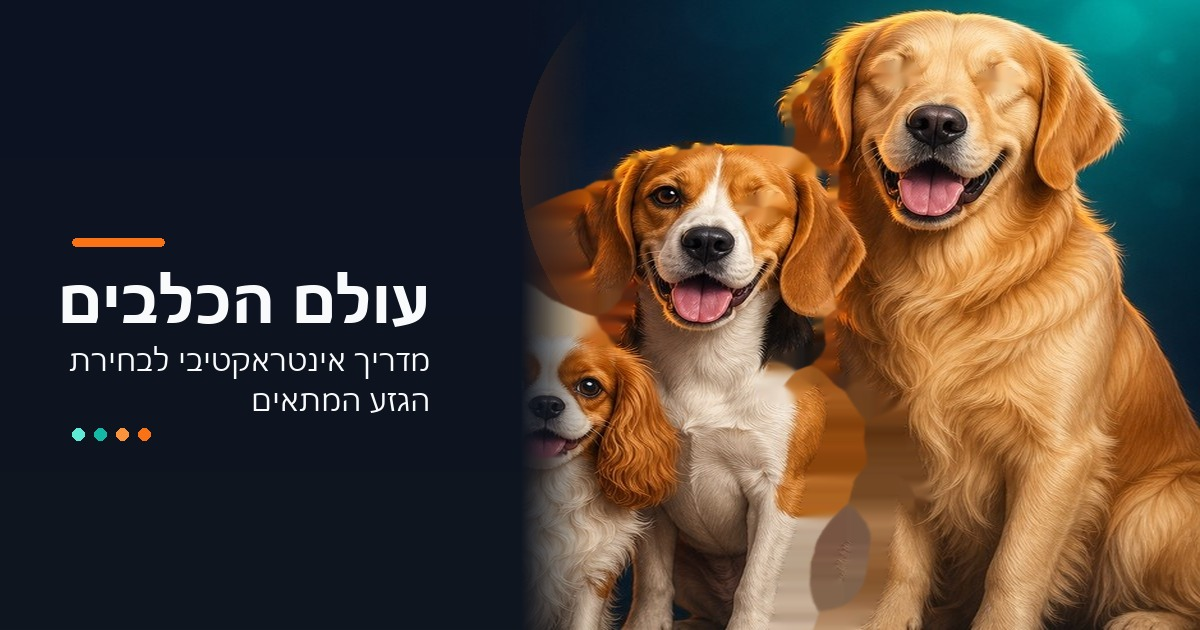
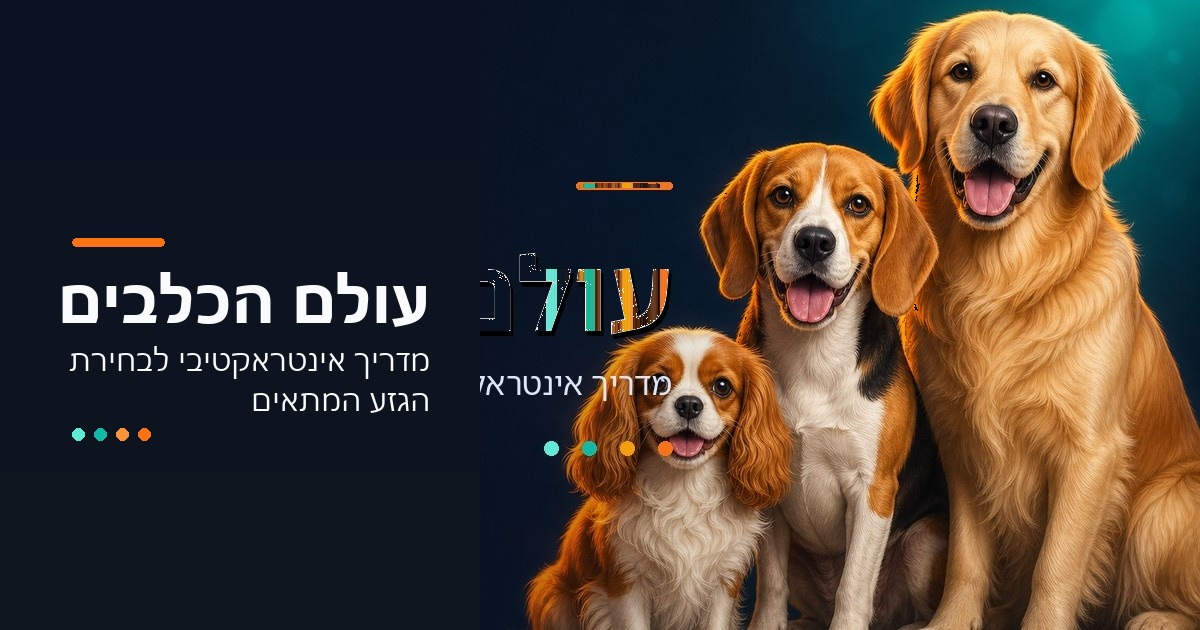
Restore OG dog photo quality by dropping crop and inpaint.
Keep the full original composition, replace only baked text pixels, and redraw typography on a solid left panel.

diff --git a/index.html b/index.html
@@ -51,8 +51,8 @@
   <!-- Share preview image: 1200×630 JPEG. Absolute URL so crawlers (which
        don't run JS) can fetch it directly, regardless of the host the
        link was shared from. -->
-  <meta property="og:image" content="https://shenhaveliya.github.io/dog-world/og-image.jpg?v=20260520-v12" />
-  <meta property="og:image:secure_url" content="https://shenhaveliya.github.io/dog-world/og-image.jpg?v=20260520-v12" />
+  <meta property="og:image" content="https://shenhaveliya.github.io/dog-world/og-image.jpg?v=20260520-v13" />
+  <meta property="og:image:secure_url" content="https://shenhaveliya.github.io/dog-world/og-image.jpg?v=20260520-v13" />
   <meta property="og:image:type" content="image/jpeg" />
   <meta property="og:image:width" content="1200" />
   <meta property="og:image:height" content="630" />
@@ -63,7 +63,7 @@
   <meta name="twitter:card" content="summary_large_image" />
   <meta id="twTitle" name="twitter:title" content="עולם הכלבים – מדריך לבחירת הגזע המתאים" />
   <meta id="twDescription" name="twitter:description" content="מדריך אינטראקטיבי לסוגי כלבים, אופי הגזעים, התאמה למשפחה, וטיפים לבחירת הכלב המתאים לך." />
-  <meta name="twitter:image" content="https://shenhaveliya.github.io/dog-world/og-image.jpg?v=20260520-v12" />
+  <meta name="twitter:image" content="https://shenhaveliya.github.io/dog-world/og-image.jpg?v=20260520-v13" />
   <meta id="twImageAlt" name="twitter:image:alt" content="עולם הכלבים – מדריך אינטראקטיבי לבחירת הגזע המתאים" />
 
   <!-- Privacy-friendly analytics. Works after the domain is added in Plausible. -->

diff --git a/scripts/generate-og-image.py b/scripts/generate-og-image.py
@@ -5,7 +5,6 @@ from __future__ import annotations
 
 from pathlib import Path
 
-import cv2
 import numpy as np
 from bidi.algorithm import get_display
 from PIL import Image, ImageDraw, ImageFont
@@ -17,10 +16,9 @@ W, H = 1200, 630
 
 TEXT_RIGHT = 430
 TEXT_LEFT = 72
-
-# Strip with zero baked subtitle/title pixels in the text band.
-DOG_CROP_X = 668
-DOG_PASTE_X = 520
+LEFT_PANEL_X = 480
+TEXT_BAND = (175, 435)
+TEXT_MASK_X = 478
 
 
 def load_font(size: int, bold: bool = False) -> ImageFont.FreeTypeFont:
@@ -41,72 +39,54 @@ def bg_color(y: int) -> tuple[int, int, int]:
 
 
 def build_text_mask(ref: np.ndarray) -> np.ndarray:
-    mask = np.zeros((H, W), dtype=np.uint8)
-    for y in range(H):
-        for x in range(W):
+    """Mask baked white/orange UI pixels only — no drop-shadow dilation."""
+    mask = np.zeros((H, W), dtype=bool)
+    y0, y1 = TEXT_BAND
+    for y in range(y0, y1 + 1):
+        for x in range(TEXT_MASK_X, W):
             r, g, b = ref[y, x]
             if r >= 248 and g >= 248 and b >= 248:
-                mask[y, x] = 255
+                mask[y, x] = True
             elif r >= 235 and 100 <= g <= 135 and b <= 35:
-                mask[y, x] = 255
-
-    for y in range(H):
-        for x in range(W):
-            if mask[y, x]:
-                continue
-            r, g, b = ref[y, x]
-            if r < 90 and g < 110 and b < 130:
-                for dy in range(-3, 4):
-                    for dx in range(-3, 4):
-                        ny, nx = y + dy, x + dx
-                        if 0 <= ny < H and 0 <= nx < W and mask[ny, nx]:
-                            mask[y, x] = 255
-                            break
-
-    kernel = cv2.getStructuringElement(cv2.MORPH_ELLIPSE, (7, 7))
-    return cv2.dilate(mask, kernel, iterations=2)
+                mask[y, x] = True
+    return mask
 
 
-def clean_reference(ref: Image.Image) -> Image.Image:
+def sample_fur(ref: np.ndarray, mask: np.ndarray, x: int, y: int) -> tuple[int, int, int]:
+    """Pick a nearby non-text pixel on the same column to replace a text pixel."""
+    y0, y1 = TEXT_BAND
+    for sy in range(y1 + 8, min(H, y1 + 100)):
+        if not mask[sy, x]:
+            return tuple(int(v) for v in ref[sy, x])
+    for sy in range(y0 - 8, max(-1, y0 - 100), -1):
+        if not mask[sy, x]:
+            return tuple(int(v) for v in ref[sy, x])
+    for dx in (1, -1, 2, -2, 3, -3):
+        nx = x + dx
+        if 0 <= nx < W and not mask[y, nx]:
+            return tuple(int(v) for v in ref[y, nx])
+    return bg_color(y)
+
+
+def remove_baked_text(ref: Image.Image) -> Image.Image:
     rgb = np.array(ref.convert("RGB"))
     mask = build_text_mask(rgb)
     if not mask.any():
         return ref
 
-    bgr = cv2.cvtColor(rgb, cv2.COLOR_RGB2BGR)
-    cleaned = cv2.inpaint(bgr, mask, inpaintRadius=5, flags=cv2.INPAINT_NS)
-    return Image.fromarray(cv2.cvtColor(cleaned, cv2.COLOR_BGR2RGB))
+    out = rgb.copy()
+    ys, xs = np.where(mask)
+    for y, x in zip(ys, xs):
+        out[y, x] = sample_fur(rgb, mask, int(x), int(y))
+    return Image.fromarray(out)
 
 
-def draw_background() -> Image.Image:
-    base = Image.new("RGB", (W, H))
-    draw = ImageDraw.Draw(base)
+def paint_left_panel(canvas: Image.Image) -> None:
+    px = canvas.load()
     for y in range(H):
-        draw.line([(0, y), (W, y)], fill=bg_color(y))
-
-    glow = Image.new("RGBA", (W, H), (0, 0, 0, 0))
-    gdraw = ImageDraw.Draw(glow)
-    gdraw.ellipse((520, -80, 1100, 420), fill=(249, 115, 22, 36))
-    gdraw.ellipse((680, 180, 1180, 680), fill=(20, 184, 166, 28))
-    return Image.alpha_composite(base.convert("RGBA"), glow).convert("RGB")
-
-
-def feather_mask(width: int, height: int, feather: int) -> Image.Image:
-    mask = Image.new("L", (width, height), 255)
-    ramp = np.linspace(0, 255, feather, dtype=np.uint8)
-    px = mask.load()
-    for x in range(feather):
-        for y in range(height):
-            px[x, y] = int(ramp[x])
-    return mask
-
-
-def paste_dogs(canvas: Image.Image, ref: Image.Image) -> None:
-    src = ref.crop((DOG_CROP_X, 0, W, H))
-    target_w = W - DOG_PASTE_X
-    dogs = src.resize((target_w, H), Image.Resampling.LANCZOS)
-    mask = feather_mask(target_w, H, feather=70)
-    canvas.paste(dogs, (DOG_PASTE_X, 0), mask)
+        color = bg_color(y)
+        for x in range(LEFT_PANEL_X):
+            px[x, y] = color
 
 
 def draw_text(canvas: Image.Image) -> None:
@@ -131,8 +111,8 @@ def draw_text(canvas: Image.Image) -> None:
 
 
 def build_canvas(ref: Image.Image) -> Image.Image:
-    canvas = draw_background()
-    paste_dogs(canvas, clean_reference(ref))
+    canvas = remove_baked_text(ref)
+    paint_left_panel(canvas)
     return canvas
 
 
